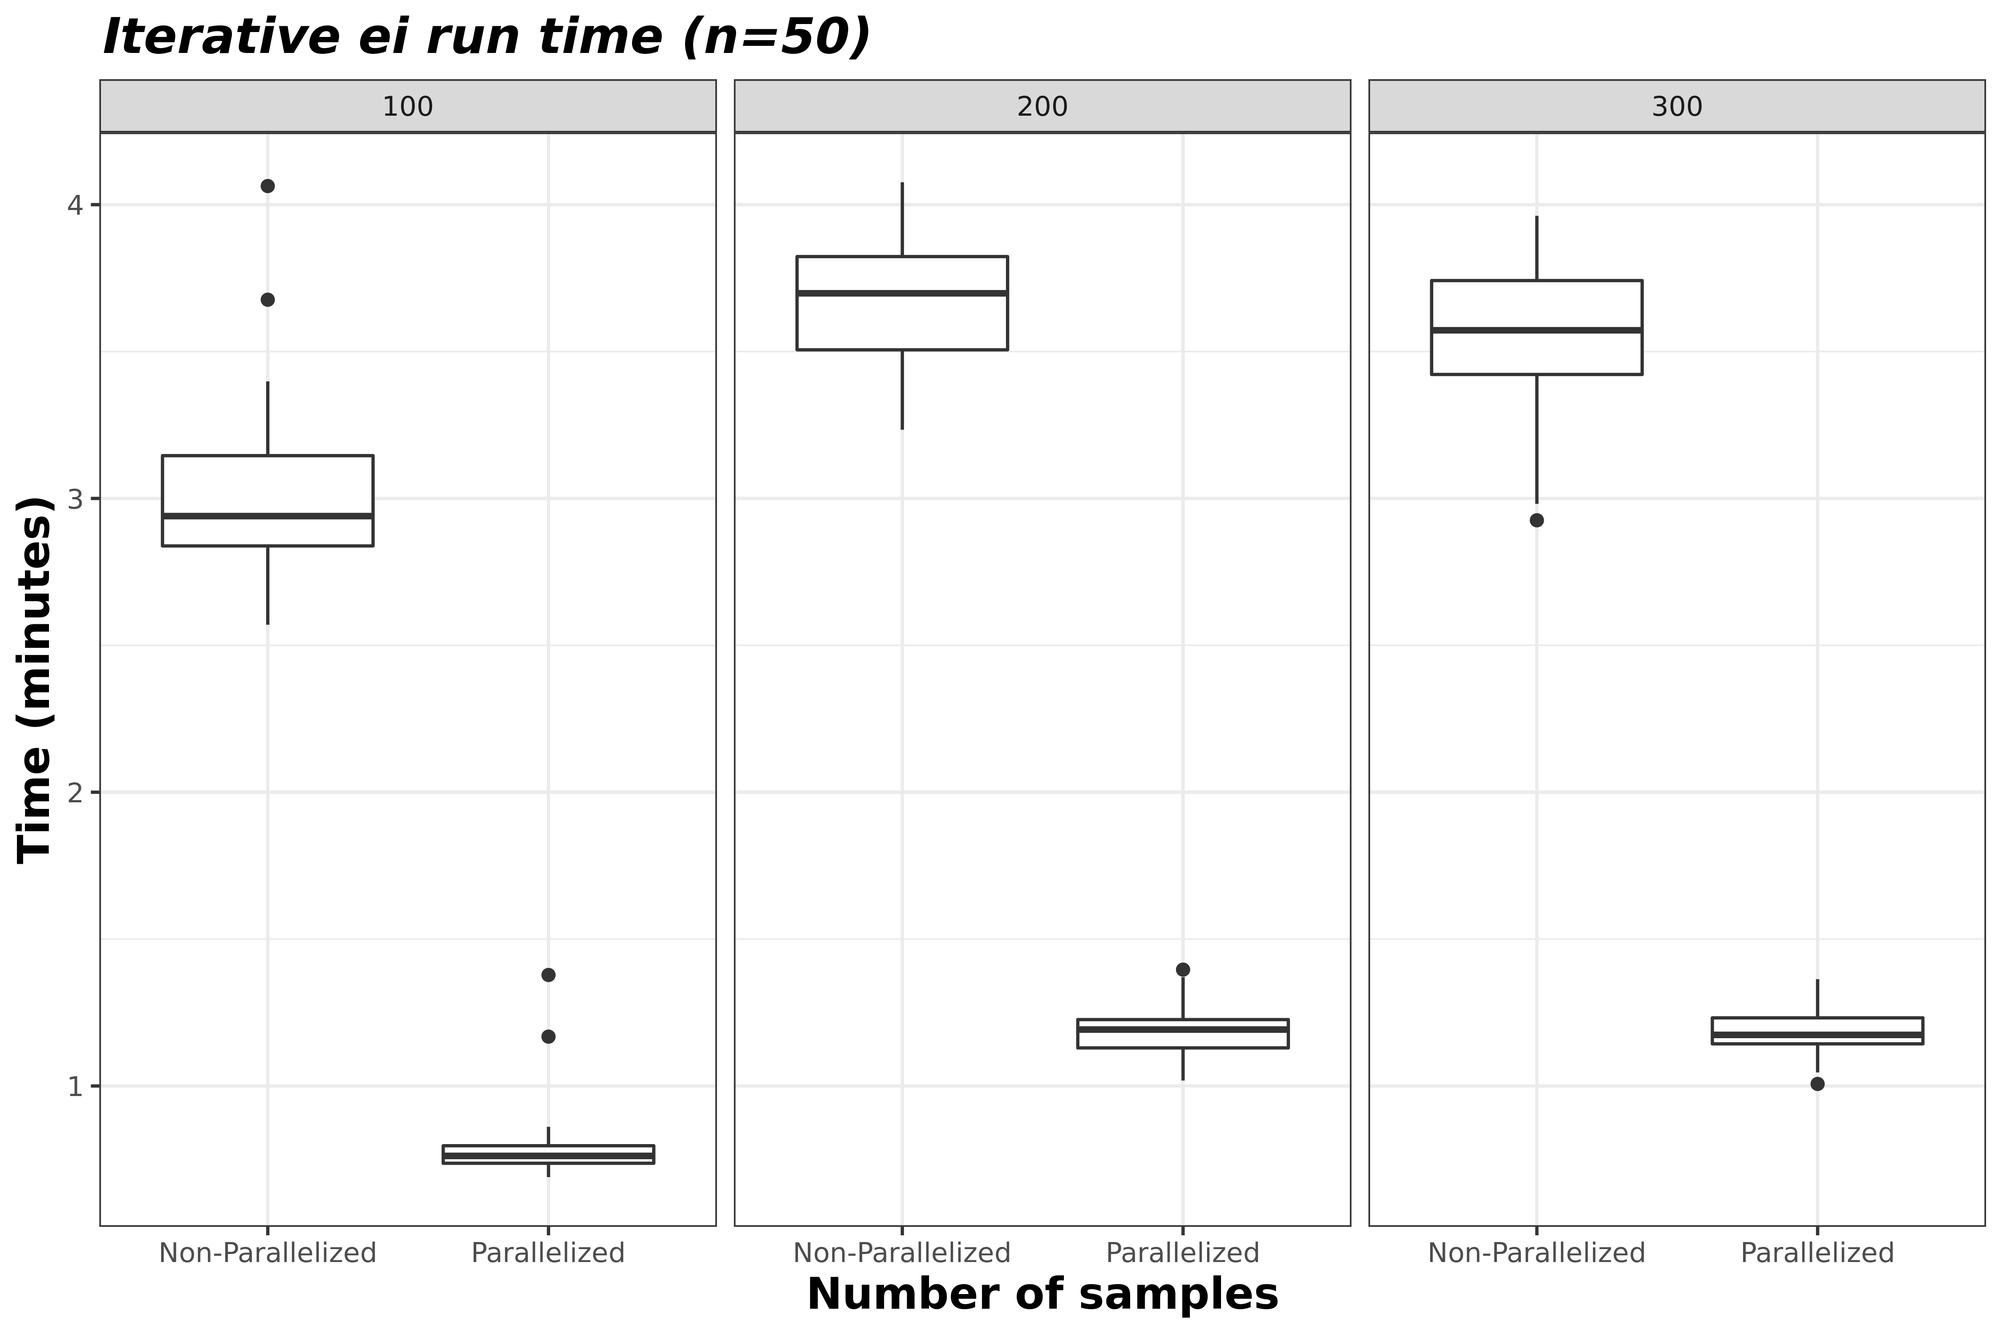
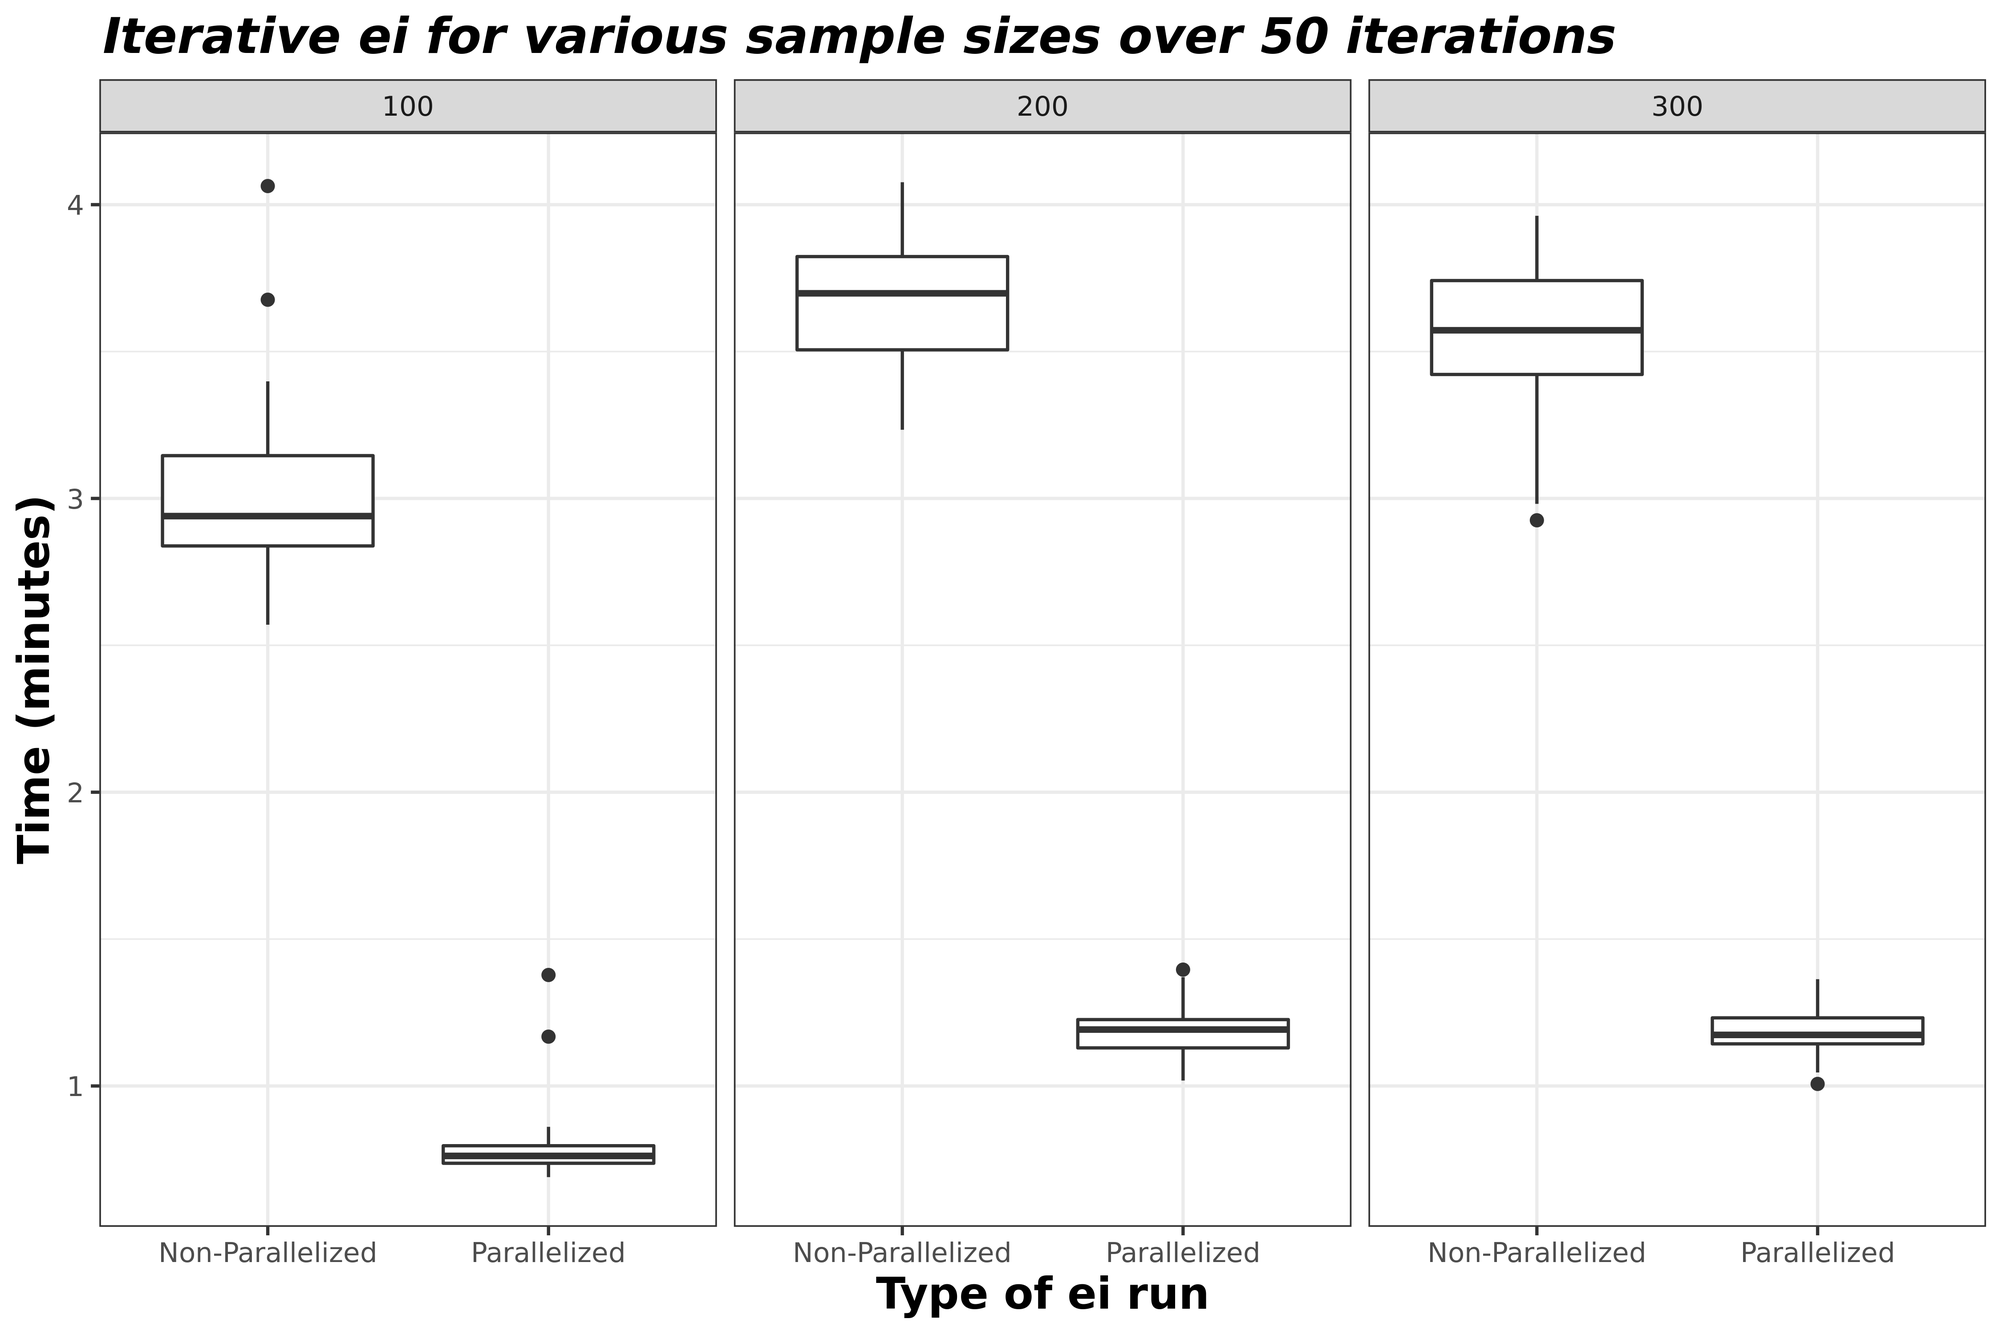
Visualization and parallelization vignette updates (#19)
* add summary other text edits

* Update benchmark plot

Changed region(s): [[0.2178, 0.0, 0.8089, 0.062], [0.4044, 0.961, 0.6533, 0.992]]

diff --git a/parallel_processing.md b/parallel_processing.md
@@ -11,7 +11,7 @@ within eiCompare. Functions that include this option are:
 
   - `ei_rxc()` (only for diagnostic)
 
-  - \[INSERT GEOCODING FUNCTION NAME HERE\]
+  - `run_geocoder()`
 
 Prior to attempting to run these functions in parallel, it is advised
 you check your computer or server for the following properites:
@@ -41,15 +41,15 @@ for the number of cores you have available to you. If you have less than
 Even with exacltly 4 cores, the functions will return a warning that
 parallelization is not recommended.
 
-There are many sources online if you’d like to learn more about
+There are many resources online if you’d like to learn more about
 parallelization in general.
 
 ## Walking through an example: `ei_iter()`
 
-In this vignette, we’ll be focusing on `ei_iter()`, which is discussed
-in a previous vignette, \[INSERT TITLE HERE\]. We recommend that you
-review this vignette prior to attempting parallelization for this
-function.
+In this vignette, we’ll be focusing on `ei_iter()` (the functionalities
+and work flow are described in detail in the Ecological Inference
+tutorial). We recommend that you review this vignette prior to
+attempting parallelization for this function.
 
 The data we’ll be using for this example is from 2014 elections in
 California, specifically looking at voting results and racial
@@ -135,7 +135,7 @@ corona$pct_hisp + corona$pct_non_lat == 1
     #> [31] TRUE TRUE TRUE TRUE TRUE TRUE TRUE TRUE TRUE TRUE TRUE TRUE TRUE TRUE TRUE
     #> [46] TRUE
 
-So for this analysis there are 5 candidates (Husted, Spiegel, Ruth,
+So for this analysis there are 6 candidates (Husted, Spiegel, Ruth,
 Button, and Montanez) and 3 racial groups (Hispanic/Latino, Asian, and
 White). With that, let’s set up the inputs we need for the function and
 time it to see how long it takes to complete the iterative ei analysis
@@ -143,7 +143,7 @@ without parallelization.
 
 ``` r
 cand_cols <- c("pct_husted", "pct_spiegel", "pct_ruth", "pct_button", "pct_montanez", "pct_fox")
-race_cols <- c("pct_hisp", "pct_asian", "pct_white", "pct_non_lat")
+race_cols <- c("pct_hisp", "pct_asian", "pct_white")
 totals_col <- "totvote"
 
 # Run without parallization
@@ -151,13 +151,13 @@ start_time <- Sys.time()
 results_test <- ei_iter(corona, cand_cols, race_cols, totals_col)
 ```
 
-    #>   |                                                                              |                                                                      |   0%  |                                                                              |======                                                                |   8%
+    #>   |                                                                              |                                                                      |   0%  |                                                                              |========                                                              |  11%
 
 ``` r
 (end_time <- Sys.time() - start_time)
 ```
 
-    #> Time difference of 1.893189 mins
+    #> Time difference of 1.075621 mins
 
 To run in this parallel, all you need to do is toggle `par_compute` to
 be TRUE.
@@ -168,13 +168,13 @@ start_time <- Sys.time()
 results_test <- ei_iter(corona, cand_cols, race_cols, totals_col, par_compute = TRUE)
 ```
 
-    #>   |                                                                              |                                                                      |   0%  |                                                                              |===                                                                   |   4%  |                                                                              |======                                                                |   8%  |                                                                              |=========                                                             |  12%  |                                                                              |============                                                          |  17%  |                                                                              |===============                                                       |  21%  |                                                                              |==================                                                    |  25%  |                                                                              |====================                                                  |  29%  |                                                                              |=======================                                               |  33%  |                                                                              |==========================                                            |  38%  |                                                                              |=============================                                         |  42%  |                                                                              |================================                                      |  46%  |                                                                              |===================================                                   |  50%  |                                                                              |======================================                                |  54%  |                                                                              |=========================================                             |  58%  |                                                                              |============================================                          |  62%  |                                                                              |===============================================                       |  67%  |                                                                              |==================================================                    |  71%  |                                                                              |====================================================                  |  75%  |                                                                              |=======================================================               |  79%  |                                                                              |==========================================================            |  83%  |                                                                              |=============================================================         |  88%  |                                                                              |================================================================      |  92%  |                                                                              |===================================================================   |  96%  |                                                                              |======================================================================| 100%
+    #>   |                                                                              |                                                                      |   0%  |                                                                              |====                                                                  |   6%  |                                                                              |========                                                              |  11%  |                                                                              |============                                                          |  17%  |                                                                              |================                                                      |  22%  |                                                                              |===================                                                   |  28%  |                                                                              |=======================                                               |  33%  |                                                                              |===========================                                           |  39%  |                                                                              |===============================                                       |  44%  |                                                                              |===================================                                   |  50%  |                                                                              |=======================================                               |  56%  |                                                                              |===========================================                           |  61%  |                                                                              |===============================================                       |  67%  |                                                                              |===================================================                   |  72%  |                                                                              |======================================================                |  78%  |                                                                              |==========================================================            |  83%  |                                                                              |==============================================================        |  89%  |                                                                              |==================================================================    |  94%  |                                                                              |======================================================================| 100%
 
 ``` r
 (end_time <- Sys.time() - start_time)
 ```
 
-    #> Time difference of 1.212652 mins
+    #> Time difference of 39.73646 secs
 
 This saves us a about a minute for this specific data set. With larger
 datasets and more candidate and racial demographic comparisons, the
@@ -195,6 +195,14 @@ equate a shorter run time. Nonetheless, parallelization can save
 multitudes of the \~4 minutes saved here, especially if you repeat
 function calls for analyses such as a boostrap.
 
+<img src="{{ site.url }}{{ site.baseurl }}/images/para_benchmark_box_nsamples.png" width="100%" />
 
-![](images/para_benchmark_box_nsamples.png)<!-- -->
+## Summary
+
+`eiCompare` provides the option to parallelize operations for iterative
+ei in `ei_iter()`, diagnostic tests in `ei_rxc()`, and geocoding in
+`run_geocoder()`. By setting the parallelization toggle to `TRUE`, as
+well as having the proper set up with more than 4 cores and more than 16
+GB of RAM, the user should be able to run these operations multitudes
+faster.
 

diff --git a/visualizations.md b/visualizations.md
@@ -3,6 +3,7 @@ layout: page
 title: eiCompare&#58; Visualizations
 ---
 
+
 This vignette aims to highlight the functionalities within eiCompare to
 produce plots. These visualizations include:
 
@@ -14,10 +15,10 @@ produce plots. These visualizations include:
     contours show which values on those lines have the highest
     probability of being an accurate estimate.
 
-  - *Density &beta;<sub>b</sub> and &beta;<sub>w</sub> comparison plots*
+  - *Density  &beta;<sub>b</sub> and &beta;<sub>w</sub> comparison plots*
     
     As an output from iterative ei, these 2-pane plots compare the
-    distribution of &beta;<sub>b</sub> and &beta;<sub>w</sub> to show the uncertainty
+    distribution of  &beta;<sub>b</sub> and &beta;<sub>w</sub> to show the uncertainty
     of the point estimates.
 
   - *Density voter choice comparison plots for each race*
@@ -27,19 +28,13 @@ produce plots. These visualizations include:
     includes information such as standard deviation, avergae percentage
     of race C voters, and overlap percentage.
 
-  - *MCMC convergence density plots*
+  - *MCMC diagnostic plots*
     
     Using `coda`, `ei_rxc()` can create diagnostic plot to assess
     convergence of the Markov Chain Monte Carlo (MCMC) and visualize the
     parameter fluctuations over iterations and its distribution. It is
     recommended to do a diagnostic run and assessing these results prior
     to running the full RxC analysis.
-
-  - *Summary plot to compare iterative ei and RxC results*
-    
-    As discussed in Barreto, Collingwood, Garcia-Ross, and Oskooii’s
-    study, RxC and iterative EI should produce similar results. This
-    output visualizes the difference seen in these two methods.
 
 ## Introducing our example data set: Corona, CA
 
@@ -135,15 +130,9 @@ and White).
 
 With that, let’s run ei\_ter to output the first set of visuals. If you
 want to to opt to create plots for `ei_iter` you’ll need to set `plots`
-to `TRUE`.
-
-In addition, if you’d like to specificy where you would like to save
-your plots, you can specify a `plots_path`. In this example we’ll just
-set it to where this vignette lives.
-
-``` r
-save_path <- "~/hikari-stuff/eiCompare/vignettes/"
-```
+to `TRUE`. In addition, if you’d like to specificy where you would like
+to save your plots, you can specify a `plots_path`. In this example
+we’ll just set it to where this vignette lives.
 
 Time to run our iteraative ei\!
 
@@ -189,10 +178,10 @@ precinct. The red dots indicate their point estimates.
 
 <img src="{{ site.url }}{{ site.baseurl }}/images/tomography_pct_montanez_pct_hisp.png" width="100%" />
 
-### Density &beta;<sub>b</sub> and &beta;<sub>w</sub> comparison plots
+### Density  &beta;<sub>b</sub> and &beta;<sub>w</sub> comparison plots
 
 These plots can be used to confirm this point estimate distributions for
-&beta;<sub>b</sub> and &beta;<sub>w</sub> across precints. The green density curve
+ &beta;<sub>b</sub> and &beta;<sub>w</sub> across precints. The green density curve
 allows for insight into the location of this point estimate as well as
 assess the associated uncertainty. Black tick marks at the bottom
 indicate the locations of each point estimate that was calculated.
@@ -213,7 +202,7 @@ density curves for these two candidates.
 ### Racial polarized voting density plots
 
 Racially polarized voting by taking the difference of the posterior
-distribution of the district level aggregates of &beta;<sub>b</sub> and &beta;<sub>w</sub>. The furthere the distribtuion mean is away from 0, the
+distribution of the district level aggregates of  &beta;<sub>b</sub> and &beta;<sub>w</sub>. The furthere the distribtuion mean is away from 0, the
 higher possibility of RPV.
 
 <img src="{{ site.url }}{{ site.baseurl }}/images/rpv_density.png" width="100%" />
@@ -236,7 +225,7 @@ rxc_diag <- ei_rxc(
 )
 ```
 
-    #> Setting random seed equal to 908418 ...
+    #> Setting random seed equal to 102657 ...
 
     #> Tuning parameters...
 
@@ -250,19 +239,17 @@ rxc_diag <- ei_rxc(
 
     #> Creating and saving plots
 
-The following plots are created by using the `coda` package.
-
 ### Trace and marginal density plots
 
-`coda` enables creating trace and density plots, side-by-side for each
-parameter, with ease. Trace plots show the calculated parameter for each
-iteration. If there seems to be a chain lags to join the rests’ mode,
-this is an indication you’d want to increase the burn-in period. On the
-other hand, the marginal density plots show the distribution of this
-parameter. You’re looking for a bell curve here– if its lumpy you’ll
-want to run the algorithm longer.
+The `coda` package enables creating trace and density plots,
+side-by-side for each parameter, with ease. Trace plots show the
+calculated parameter for each iteration. If there seems to be a chain
+lags to join the rests’ mode, this is an indication you’d want to
+increase the burn-in period. On the other hand, the marginal density
+plots show the distribution of this parameter. You’re looking for a bell
+curve here– if its lumpy you’ll want to run the algorithm longer.
 
-[trace_density.pdf](/images/trace_density.pdf)
+<embed src="{{ site.url }}{{ site.baseurl }}/images/trace_density.pdf" width="0.75\linewidth" type="application/pdf" />
 
 ### Gelman-Rubin diagnostic plot
 
@@ -273,29 +260,20 @@ these plots you’ll be looking to for values below a factor of \~1.1 so
 these plots will give you a good sense of any changes you’ll need for
 burn-in.
 
-[gelman.pdf](/images/gelman.pdf)
+<embed src="{{ site.url }}{{ site.baseurl }}/images/gelman.pdf" width="0.75\linewidth" type="application/pdf" />
 
-## EI and RxC comparison chart
+## Summary
 
-The `ei_rc_good_table` function lets the user compare the distribution
-of their ei and rxc results. This plot is one method to double check RxC
-parameter settings and enable users to go back and check over their
-work.
+`eiCompare` has built in capabilities to create plots for answering
+ecological inference questions as well as help improve running RxC ei.
 
-First let’s run the rxc analysis:
+  - If `plots` is specified as `TRUE` for `ei_iter()`, tomography,
+    density comparison, and density voter choice plots will be created.
 
-``` r
-# rxc_results <- ei_rxc(
-#   data = corona, cand_cols, race_cols, totals_col, diagnostic = FALSE,
-#   par_compute = TRUE, verbose = TRUE
-# )
-```
+  - If `plots` is specified as `TRUE` for `ei_rxc()`, density voter
+    choice plots will be created.
 
-And now we can combine our results to compare their distributions.
-
-``` r
-# ei_rc_combine <- ei_rc_good_table(ei_results, rxc_results,
-#   groups = c("Latino", "Asian", "White")
-# )
-# plot(ei_rc_combine)
-```
+  - If `diagnostic` is specified as `TRUE` for `ei_rxc()` trace,
+    marginal density plots, and Gelman-Rubin diagnostic plots will be
+    created. Taking a look at these will help determine optimal
+    parameters.
